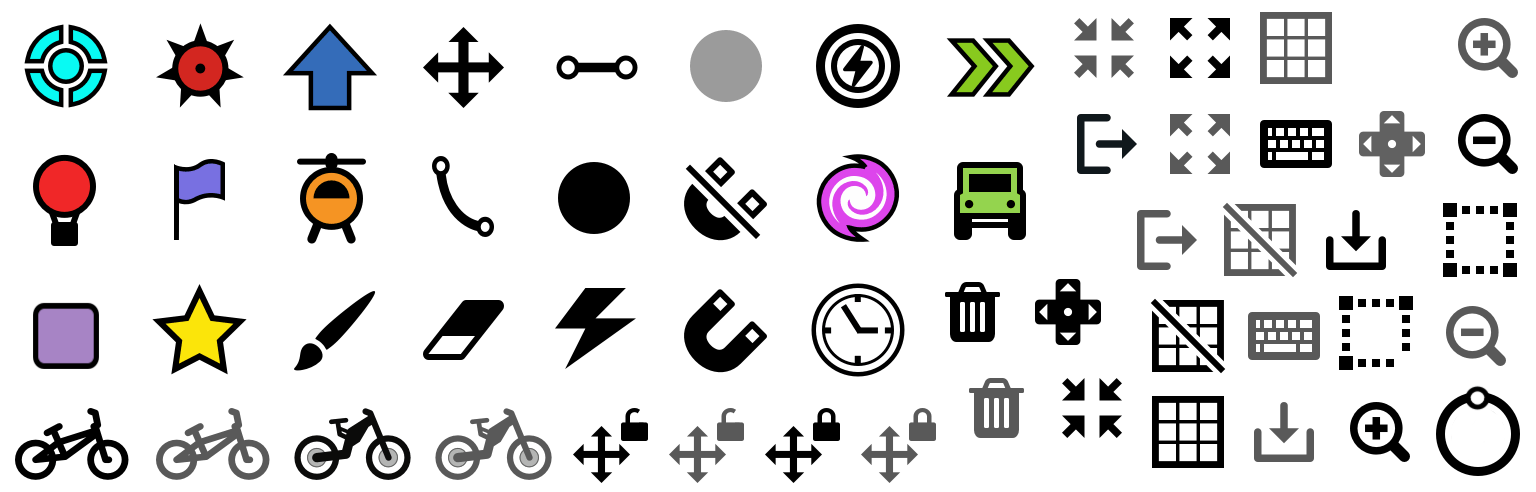
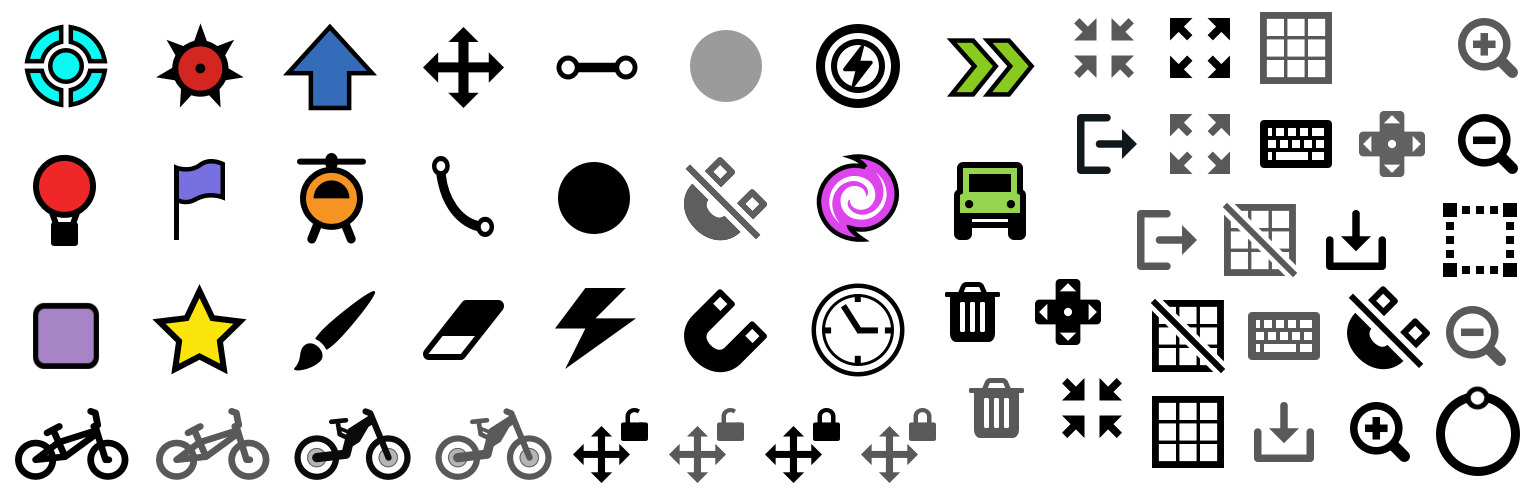
re-added snap bottom tool options

Changed region(s): [[0.875, 0.5793, 0.9375, 0.7622], [0.4375, 0.3354, 0.5, 0.4878]]

diff --git a/scripts/offlineeditor.js b/scripts/offlineeditor.js
@@ -406,7 +406,7 @@
                     n.createElement(i, {
                       active: this.props.data.cameraLocked,
                     }),
-                    //n.createElement(xxx, { active: this.props.data.snap }),
+                    n.createElement(xxx, { active: this.props.data.snap }),
                     n.createElement(o, { active: this.props.data.grid }),
                     n.createElement(r, { vehicle: this.props.data.vehicle }),
                     n.createElement(v),
@@ -5705,7 +5705,7 @@
           },
           renderSnapSizeSelect: function () {
             var e = GameSettings.snapDistance,
-              t = [0, 2, 5, 10, 25, 50, 100, 250];
+              t = [0, 2, 5, 10, 25, 50, 100];
             return n.createElement("select", {
               ref: "snapSize",
               defaultValue: e,
@@ -5760,10 +5760,10 @@
         },*/
           render: function () {
             var e = "bottomMenu-button bottomMenu-button-right bottomMenu-button_snap ",
-              t = "editorgui_icons_bottom editorgui_icons-icon_snap",
+              t = "editorgui_icons_bottom editorgui_icons-icon_snapbottom",
               a = this.props.active;
             a && (e += " bottomMenu-button-active",
-              t = "editorgui_icons editorgui_icons-icon_snap_on");
+              t = "editorgui_icons editorgui_icons-icon_snapbottom_on");
             var o = ""
             return n.createElement("div", {
               className: e,

diff --git a/app.css b/app.css
@@ -1418,22 +1418,40 @@ html.fullscreen #main_page {
     background-position: -219px -46px;
 }
 
+.editorgui_icons-icon_snapbottom {
+    width: 40px;
+    height: 40px;
+    background-position: -219px -47px;
+}
+
+.editorgui_icons-icon_snapbottom:hover {
+    width: 40px;
+    height: 40px;
+    background-position: -440px -90px;
+}
+
 .editorgui_icons-icon_snap_on {
     width: 44px;
     height: 44px;
     background-position: -219px -90px
 }
 
+.editorgui_icons-icon_snapbottom_on {
+    width: 40px;
+    height: 40px;
+    background-position: -219px -91px
+}
+
 .editorgui_icons-icon_camera_lock_off {
     width: 32px;
     height: 32px;
-    background-position: -220px -132px
+    background-position: -220px -131px
 }
 
 .editorgui_icons-icon_camera_lock_on:hover {
     width: 32px;
     height: 32px;
-    background-position: -252px -132px
+    background-position: -252px -131px
 }
 
 .editorgui_icons-icon_vehicle_swap {
@@ -1457,7 +1475,7 @@ html.fullscreen #main_page {
 .editorgui_icons-icon_camera_lock_on {
     width: 32px;
     height: 32px;
-    background-position: -284px -132px
+    background-position: -284px -131px
 }
 
 .editorgui_icons-speed {
@@ -1790,6 +1808,7 @@ html.fullscreen #main_page {
     padding-left: 5px;
 
 }
+
 
 .bottomMenu-button_cameralock {
     min-width: 140px
